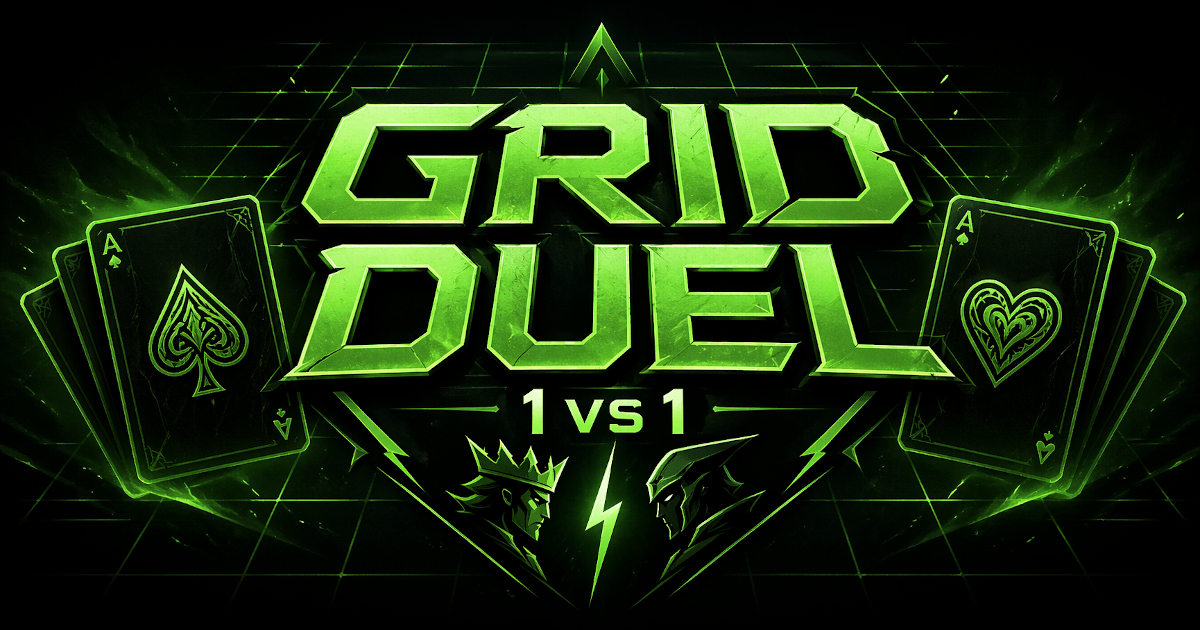
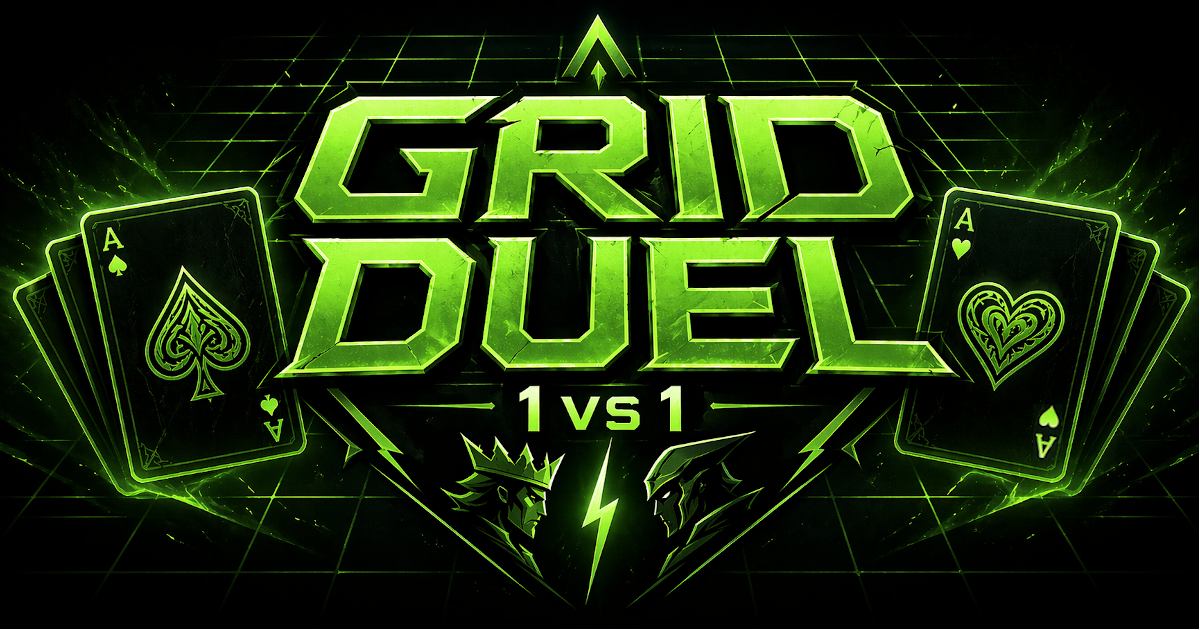
Fix share URL encoding and update OGP image
- Use encodeURIComponent instead of URLSearchParams to prevent
  literal text= and + from appearing in share text
- Replace og-image.png with updated thumbnail

diff --git a/lib/share.ts b/lib/share.ts
@@ -4,13 +4,11 @@ export type SharePayload = {
 };
 
 export function buildXShareUrl({ text, url }: SharePayload): string {
-  const params = new URLSearchParams({ text: `${text}\n${url}` });
-  return `https://x.com/intent/tweet?${params}`;
+  return `https://x.com/intent/tweet?text=${encodeURIComponent(`${text}\n${url}`)}`;
 }
 
 export function buildLineShareUrl({ text, url }: SharePayload): string {
-  const params = new URLSearchParams({ text: `${text}\n${url}` });
-  return `https://line.me/R/msg/text/?${params}`;
+  return `https://line.me/R/msg/text/?${encodeURIComponent(`${text}\n${url}`)}`;
 }
 
 export function openShare(shareUrl: string): void {
